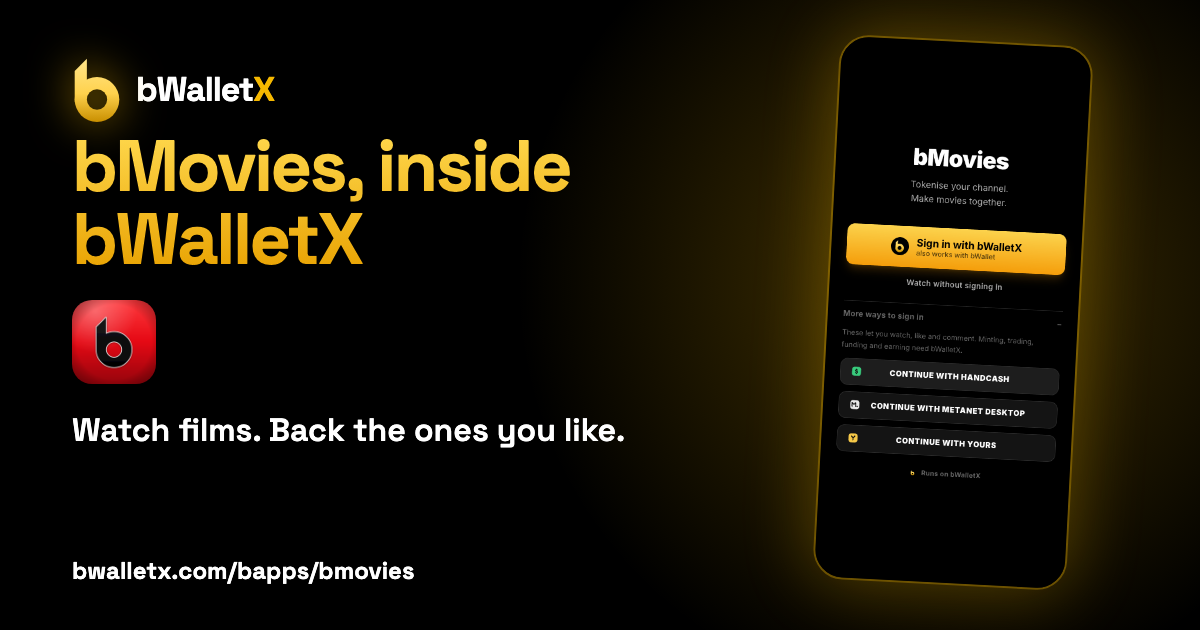
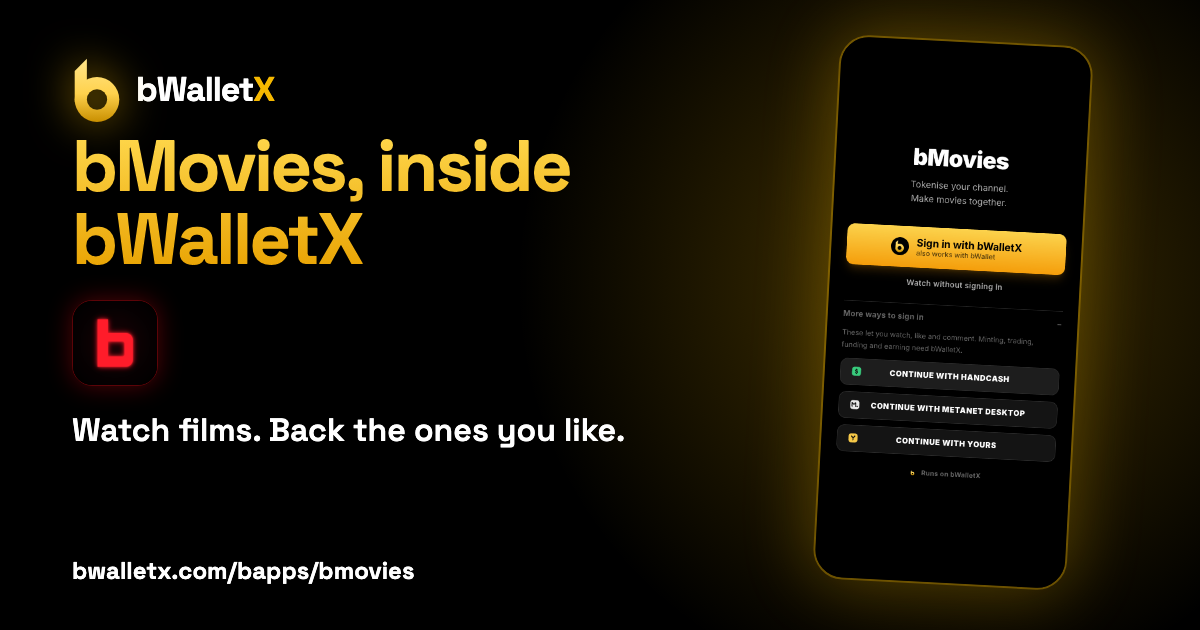
bMovies: black tile with glowing red b (512/192) on /bapps, /bapps/bmovies and its OG

Changed region(s): [[0.0308, 0.4524, 0.1542, 0.6333]]

diff --git a/bapps.html b/bapps.html
@@ -87,7 +87,7 @@
 
       <h2>All bApps</h2>
       <p class="small"><b>Live</b>: working, in daily use. <b>Beta</b>: the site works, but it's early. <b>Coming</b>: not open yet.</p>
-      <h3 class="grp">Featured</h3><div class="bgrid"><a class="bc" href="https://www.bitcoinchat.online" target="_blank" rel="noopener"><img src="/bapps/bchat.png" alt="" width="48" height="48" loading="lazy" /><span class="bt"><b>bChat</b><span class="chip c-live">Live</span></span><span class="bv">Chat, voice and video messages, tokenised group chats</span><span class="go">Open &rarr;</span></a><a class="bc" href="/bapps/bmovies"><img src="/bapps/bmovies.png" alt="" width="48" height="48" loading="lazy" /><span class="bt"><b>bMovies</b><span class="chip c-live">Live</span></span><span class="bv">Watch and back tokenised films</span><span class="go">Read more &rarr;</span></a><a class="bc" href="https://www.bmovies.app/bmusic" target="_blank" rel="noopener"><img src="/bapps/bmusic.png" alt="" width="48" height="48" loading="lazy" /><span class="bt"><b>bMusic</b><span class="chip c-live">Live</span></span><span class="bv">Tokenise your music; fans who hold it make the video with you</span><span class="go">Open &rarr;</span></a><a class="bc" href="https://www.bitcoin-mint.com/mint" target="_blank" rel="noopener"><img src="/bapps/bmint.png" alt="" width="48" height="48" loading="lazy" /><span class="bt"><b>bMint</b><span class="chip c-live">Live</span></span><span class="bv">Design, stamp and mint tokens, currency and media on-chain</span><span class="go">Open &rarr;</span></a><a class="bc" href="https://bitcoin-writer.com/" target="_blank" rel="noopener"><img src="/bapps/bwriter.png" alt="" width="48" height="48" loading="lazy" /><span class="bt"><b>bWriter</b><span class="chip c-live">Live</span></span><span class="bv">Write and save documents on-chain</span><span class="go">Open &rarr;</span></a></div><h3 class="grp">Work</h3><div class="bgrid"><a class="bc" href="https://bitcoin-spreadsheet.vercel.app" target="_blank" rel="noopener"><img src="/bapps/bsheets.png" alt="" width="48" height="48" loading="lazy" /><span class="bt"><b>bSheets</b><span class="chip c-live">Live</span></span><span class="bv">Spreadsheets saved on-chain</span><span class="go">Open &rarr;</span></a><a class="bc" href="https://bitcoin-email.vercel.app" target="_blank" rel="noopener"><img src="/bapps/bmail.png" alt="" width="48" height="48" loading="lazy" /><span class="bt"><b>bMail</b><span class="chip c-beta">Beta</span></span><span class="bv">Send email that pays and gets paid</span><span class="go">Open &rarr;</span></a><a class="bc" href="https://bitcoin-drive.vercel.app" target="_blank" rel="noopener"><img src="/bapps/bdrive.png" alt="" width="48" height="48" loading="lazy" /><span class="bt"><b>bDrive</b><span class="chip c-beta">Beta</span></span><span class="bv">Store and share files on-chain</span><span class="go">Open &rarr;</span></a><a class="bc" href="https://bitcoin-calendar.vercel.app" target="_blank" rel="noopener"><img src="/bapps/bcal.png" alt="" width="48" height="48" loading="lazy" /><span class="bt"><b>bCal</b><span class="chip c-beta">Beta</span></span><span class="bv">Keep a calendar on Bitcoin</span><span class="go">Open &rarr;</span></a><a class="bc" href="https://bitcoin-code.vercel.app" target="_blank" rel="noopener"><img src="/bapps/bcode.png" alt="" width="48" height="48" loading="lazy" /><span class="bt"><b>bCode</b><span class="chip c-beta">Beta</span></span><span class="bv">Build apps on Bitcoin</span><span class="go">Open &rarr;</span></a><a class="bc" href="https://bitcoin-jobs.vercel.app" target="_blank" rel="noopener"><img src="/bapps/bjobs.png" alt="" width="48" height="48" loading="lazy" /><span class="bt"><b>bJobs</b><span class="chip c-beta">Beta</span></span><span class="bv">Find work and hire, paid in BSV</span><span class="go">Open &rarr;</span></a><a class="bc" href="https://bitcoin-identity.vercel.app" target="_blank" rel="noopener"><img src="/bapps/bid.png" alt="" width="48" height="48" loading="lazy" /><span class="bt"><b>bID</b><span class="chip c-beta">Beta</span></span><span class="bv">Manage your on-chain identity</span><span class="go">Open &rarr;</span></a><a class="bc" href="https://bitcoin-search.vercel.app" target="_blank" rel="noopener"><img src="/bapps/bsearch.png" alt="" width="48" height="48" loading="lazy" /><span class="bt"><b>bSearch</b><span class="chip c-beta">Beta</span></span><span class="bv">Search what lives on-chain</span><span class="go">Open &rarr;</span></a><a class="bc" href="https://bitcoin-dns.vercel.app" target="_blank" rel="noopener"><img src="/bapps/bdns.png" alt="" width="48" height="48" loading="lazy" /><span class="bt"><b>bDNS</b><span class="chip c-beta">Beta</span></span><span class="bv">Register and trade names on Bitcoin</span><span class="go">Open &rarr;</span></a></div><h3 class="grp">Media</h3><div class="bgrid"><a class="bc" href="https://bitcoin-video-nine.vercel.app" target="_blank" rel="noopener"><img src="/bapps/bvideo.png" alt="" width="48" height="48" loading="lazy" /><span class="bt"><b>bVideo</b><span class="chip c-beta">Beta</span></span><span class="bv">Watch and publish video</span><span class="go">Open &rarr;</span></a><a class="bc" href="https://bitcoin-radio.vercel.app" target="_blank" rel="noopener"><img src="/bapps/bradio.png" alt="" width="48" height="48" loading="lazy" /><span class="bt"><b>bRadio</b><span class="chip c-beta">Beta</span></span><span class="bv">Listen to and run Bitcoin radio</span><span class="go">Open &rarr;</span></a><a class="bc" href="https://bitcoin-photos.vercel.app" target="_blank" rel="noopener"><img src="/bapps/bphotos.png" alt="" width="48" height="48" loading="lazy" /><span class="bt"><b>bPhotos</b><span class="chip c-beta">Beta</span></span><span class="bv">Turn photos into NFTs</span><span class="go">Open &rarr;</span></a><a class="bc" href="https://bitcoin-art.vercel.app" target="_blank" rel="noopener"><img src="/bapps/bart.png" alt="" width="48" height="48" loading="lazy" /><span class="bt"><b>bArt</b><span class="chip c-beta">Beta</span></span><span class="bv">Collect and show on-chain art</span><span class="go">Open &rarr;</span></a><a class="bc" href="https://bitcoin-paint.vercel.app" target="_blank" rel="noopener"><img src="/bapps/bpaint.png" alt="" width="48" height="48" loading="lazy" /><span class="bt"><b>bPaint</b><span class="chip c-beta">Beta</span></span><span class="bv">Paint and inscribe your work</span><span class="go">Open &rarr;</span></a><a class="bc" href="https://bitcoin-3d.vercel.app" target="_blank" rel="noopener"><img src="/bapps/b3d.png" alt="" width="48" height="48" loading="lazy" /><span class="bt"><b>b3D</b><span class="chip c-beta">Beta</span></span><span class="bv">Model and own 3D designs</span><span class="go">Open &rarr;</span></a><a class="bc" href="https://bitcoin-books-bay.vercel.app" target="_blank" rel="noopener"><img src="/bapps/bbooks.png" alt="" width="48" height="48" loading="lazy" /><span class="bt"><b>bBooks</b><span class="chip c-beta">Beta</span></span><span class="bv">Read and publish books</span><span class="go">Open &rarr;</span></a><div class="bc off"><img src="/bapps/bedu.png" alt="" width="48" height="48" loading="lazy" /><span class="bt"><b>bEdu</b><span class="chip c-coming">Coming</span></span><span class="bv">Learn and teach courses</span><span class="go">Coming</span></div></div><h3 class="grp">Social &amp; more</h3><div class="bgrid"><a class="bc" href="https://agents.bwalletx.com" target="_blank" rel="noopener"><img src="/bapps/bagents.png" alt="" width="48" height="48" loading="lazy" /><span class="bt"><b>bAgents</b><span class="chip c-beta">Beta</span></span><span class="bv">Run your AI agents and their budgets</span><span class="go">Open &rarr;</span></a><a class="bc" href="https://bitcoin-social.vercel.app" target="_blank" rel="noopener"><img src="/bapps/bsocial.png" alt="" width="48" height="48" loading="lazy" /><span class="bt"><b>bSocial</b><span class="chip c-beta">Beta</span></span><span class="bv">Post and follow on Bitcoin</span><span class="go">Open &rarr;</span></a><a class="bc" href="https://bitcoin-gaming.vercel.app" target="_blank" rel="noopener"><img src="/bapps/bgames.png" alt="" width="48" height="48" loading="lazy" /><span class="bt"><b>bGames</b><span class="chip c-beta">Beta</span></span><span class="bv">Play games on Bitcoin</span><span class="go">Open &rarr;</span></a><a class="bc" href="https://bitcoin-maps.vercel.app" target="_blank" rel="noopener"><img src="/bapps/bmaps.png" alt="" width="48" height="48" loading="lazy" /><span class="bt"><b>bMaps</b><span class="chip c-beta">Beta</span></span><span class="bv">Find places that take Bitcoin</span><span class="go">Open &rarr;</span></a></div>
+      <h3 class="grp">Featured</h3><div class="bgrid"><a class="bc" href="https://www.bitcoinchat.online" target="_blank" rel="noopener"><img src="/bapps/bchat.png" alt="" width="48" height="48" loading="lazy" /><span class="bt"><b>bChat</b><span class="chip c-live">Live</span></span><span class="bv">Chat, voice and video messages, tokenised group chats</span><span class="go">Open &rarr;</span></a><a class="bc" href="/bapps/bmovies"><img src="/bapps/bmovies-192.png" alt="" width="48" height="48" loading="lazy" /><span class="bt"><b>bMovies</b><span class="chip c-live">Live</span></span><span class="bv">Watch and back tokenised films</span><span class="go">Read more &rarr;</span></a><a class="bc" href="https://www.bmovies.app/bmusic" target="_blank" rel="noopener"><img src="/bapps/bmusic.png" alt="" width="48" height="48" loading="lazy" /><span class="bt"><b>bMusic</b><span class="chip c-live">Live</span></span><span class="bv">Tokenise your music; fans who hold it make the video with you</span><span class="go">Open &rarr;</span></a><a class="bc" href="https://www.bitcoin-mint.com/mint" target="_blank" rel="noopener"><img src="/bapps/bmint.png" alt="" width="48" height="48" loading="lazy" /><span class="bt"><b>bMint</b><span class="chip c-live">Live</span></span><span class="bv">Design, stamp and mint tokens, currency and media on-chain</span><span class="go">Open &rarr;</span></a><a class="bc" href="https://bitcoin-writer.com/" target="_blank" rel="noopener"><img src="/bapps/bwriter.png" alt="" width="48" height="48" loading="lazy" /><span class="bt"><b>bWriter</b><span class="chip c-live">Live</span></span><span class="bv">Write and save documents on-chain</span><span class="go">Open &rarr;</span></a></div><h3 class="grp">Work</h3><div class="bgrid"><a class="bc" href="https://bitcoin-spreadsheet.vercel.app" target="_blank" rel="noopener"><img src="/bapps/bsheets.png" alt="" width="48" height="48" loading="lazy" /><span class="bt"><b>bSheets</b><span class="chip c-live">Live</span></span><span class="bv">Spreadsheets saved on-chain</span><span class="go">Open &rarr;</span></a><a class="bc" href="https://bitcoin-email.vercel.app" target="_blank" rel="noopener"><img src="/bapps/bmail.png" alt="" width="48" height="48" loading="lazy" /><span class="bt"><b>bMail</b><span class="chip c-beta">Beta</span></span><span class="bv">Send email that pays and gets paid</span><span class="go">Open &rarr;</span></a><a class="bc" href="https://bitcoin-drive.vercel.app" target="_blank" rel="noopener"><img src="/bapps/bdrive.png" alt="" width="48" height="48" loading="lazy" /><span class="bt"><b>bDrive</b><span class="chip c-beta">Beta</span></span><span class="bv">Store and share files on-chain</span><span class="go">Open &rarr;</span></a><a class="bc" href="https://bitcoin-calendar.vercel.app" target="_blank" rel="noopener"><img src="/bapps/bcal.png" alt="" width="48" height="48" loading="lazy" /><span class="bt"><b>bCal</b><span class="chip c-beta">Beta</span></span><span class="bv">Keep a calendar on Bitcoin</span><span class="go">Open &rarr;</span></a><a class="bc" href="https://bitcoin-code.vercel.app" target="_blank" rel="noopener"><img src="/bapps/bcode.png" alt="" width="48" height="48" loading="lazy" /><span class="bt"><b>bCode</b><span class="chip c-beta">Beta</span></span><span class="bv">Build apps on Bitcoin</span><span class="go">Open &rarr;</span></a><a class="bc" href="https://bitcoin-jobs.vercel.app" target="_blank" rel="noopener"><img src="/bapps/bjobs.png" alt="" width="48" height="48" loading="lazy" /><span class="bt"><b>bJobs</b><span class="chip c-beta">Beta</span></span><span class="bv">Find work and hire, paid in BSV</span><span class="go">Open &rarr;</span></a><a class="bc" href="https://bitcoin-identity.vercel.app" target="_blank" rel="noopener"><img src="/bapps/bid.png" alt="" width="48" height="48" loading="lazy" /><span class="bt"><b>bID</b><span class="chip c-beta">Beta</span></span><span class="bv">Manage your on-chain identity</span><span class="go">Open &rarr;</span></a><a class="bc" href="https://bitcoin-search.vercel.app" target="_blank" rel="noopener"><img src="/bapps/bsearch.png" alt="" width="48" height="48" loading="lazy" /><span class="bt"><b>bSearch</b><span class="chip c-beta">Beta</span></span><span class="bv">Search what lives on-chain</span><span class="go">Open &rarr;</span></a><a class="bc" href="https://bitcoin-dns.vercel.app" target="_blank" rel="noopener"><img src="/bapps/bdns.png" alt="" width="48" height="48" loading="lazy" /><span class="bt"><b>bDNS</b><span class="chip c-beta">Beta</span></span><span class="bv">Register and trade names on Bitcoin</span><span class="go">Open &rarr;</span></a></div><h3 class="grp">Media</h3><div class="bgrid"><a class="bc" href="https://bitcoin-video-nine.vercel.app" target="_blank" rel="noopener"><img src="/bapps/bvideo.png" alt="" width="48" height="48" loading="lazy" /><span class="bt"><b>bVideo</b><span class="chip c-beta">Beta</span></span><span class="bv">Watch and publish video</span><span class="go">Open &rarr;</span></a><a class="bc" href="https://bitcoin-radio.vercel.app" target="_blank" rel="noopener"><img src="/bapps/bradio.png" alt="" width="48" height="48" loading="lazy" /><span class="bt"><b>bRadio</b><span class="chip c-beta">Beta</span></span><span class="bv">Listen to and run Bitcoin radio</span><span class="go">Open &rarr;</span></a><a class="bc" href="https://bitcoin-photos.vercel.app" target="_blank" rel="noopener"><img src="/bapps/bphotos.png" alt="" width="48" height="48" loading="lazy" /><span class="bt"><b>bPhotos</b><span class="chip c-beta">Beta</span></span><span class="bv">Turn photos into NFTs</span><span class="go">Open &rarr;</span></a><a class="bc" href="https://bitcoin-art.vercel.app" target="_blank" rel="noopener"><img src="/bapps/bart.png" alt="" width="48" height="48" loading="lazy" /><span class="bt"><b>bArt</b><span class="chip c-beta">Beta</span></span><span class="bv">Collect and show on-chain art</span><span class="go">Open &rarr;</span></a><a class="bc" href="https://bitcoin-paint.vercel.app" target="_blank" rel="noopener"><img src="/bapps/bpaint.png" alt="" width="48" height="48" loading="lazy" /><span class="bt"><b>bPaint</b><span class="chip c-beta">Beta</span></span><span class="bv">Paint and inscribe your work</span><span class="go">Open &rarr;</span></a><a class="bc" href="https://bitcoin-3d.vercel.app" target="_blank" rel="noopener"><img src="/bapps/b3d.png" alt="" width="48" height="48" loading="lazy" /><span class="bt"><b>b3D</b><span class="chip c-beta">Beta</span></span><span class="bv">Model and own 3D designs</span><span class="go">Open &rarr;</span></a><a class="bc" href="https://bitcoin-books-bay.vercel.app" target="_blank" rel="noopener"><img src="/bapps/bbooks.png" alt="" width="48" height="48" loading="lazy" /><span class="bt"><b>bBooks</b><span class="chip c-beta">Beta</span></span><span class="bv">Read and publish books</span><span class="go">Open &rarr;</span></a><div class="bc off"><img src="/bapps/bedu.png" alt="" width="48" height="48" loading="lazy" /><span class="bt"><b>bEdu</b><span class="chip c-coming">Coming</span></span><span class="bv">Learn and teach courses</span><span class="go">Coming</span></div></div><h3 class="grp">Social &amp; more</h3><div class="bgrid"><a class="bc" href="https://agents.bwalletx.com" target="_blank" rel="noopener"><img src="/bapps/bagents.png" alt="" width="48" height="48" loading="lazy" /><span class="bt"><b>bAgents</b><span class="chip c-beta">Beta</span></span><span class="bv">Run your AI agents and their budgets</span><span class="go">Open &rarr;</span></a><a class="bc" href="https://bitcoin-social.vercel.app" target="_blank" rel="noopener"><img src="/bapps/bsocial.png" alt="" width="48" height="48" loading="lazy" /><span class="bt"><b>bSocial</b><span class="chip c-beta">Beta</span></span><span class="bv">Post and follow on Bitcoin</span><span class="go">Open &rarr;</span></a><a class="bc" href="https://bitcoin-gaming.vercel.app" target="_blank" rel="noopener"><img src="/bapps/bgames.png" alt="" width="48" height="48" loading="lazy" /><span class="bt"><b>bGames</b><span class="chip c-beta">Beta</span></span><span class="bv">Play games on Bitcoin</span><span class="go">Open &rarr;</span></a><a class="bc" href="https://bitcoin-maps.vercel.app" target="_blank" rel="noopener"><img src="/bapps/bmaps.png" alt="" width="48" height="48" loading="lazy" /><span class="bt"><b>bMaps</b><span class="chip c-beta">Beta</span></span><span class="bv">Find places that take Bitcoin</span><span class="go">Open &rarr;</span></a></div>
 
       <h2>Build your own</h2>
       <div class="rules">

diff --git a/bapps/bmovies.html b/bapps/bmovies.html
@@ -72,7 +72,7 @@
     <script src="/nav.js"></script>
         <main class="ext">
       <p class="small"><a href="/bapps">&larr; All bApps</a></p>
-      <img src="/bapps/bmovies.png" alt="bMovies" width="72" height="72" style="border-radius:16px" />
+      <img src="/bapps/bmovies-192.png" alt="bMovies" width="72" height="72" style="border-radius:16px" />
       <h1>bMovies, inside bWallet<span class="gold">X</span></h1>
       <p class="lede">bMovies is a film feed on Bitcoin SV. Scroll it like Instagram, watch thousands of films, and back the ones you want more of. Sign in with bWalletX and it works like part of your wallet.</p>
       <div class="ctas"><a class="p" href="https://bmovies.app" target="_blank" rel="noopener">Open bMovies</a><a href="/get">Get bWalletX</a></div>
